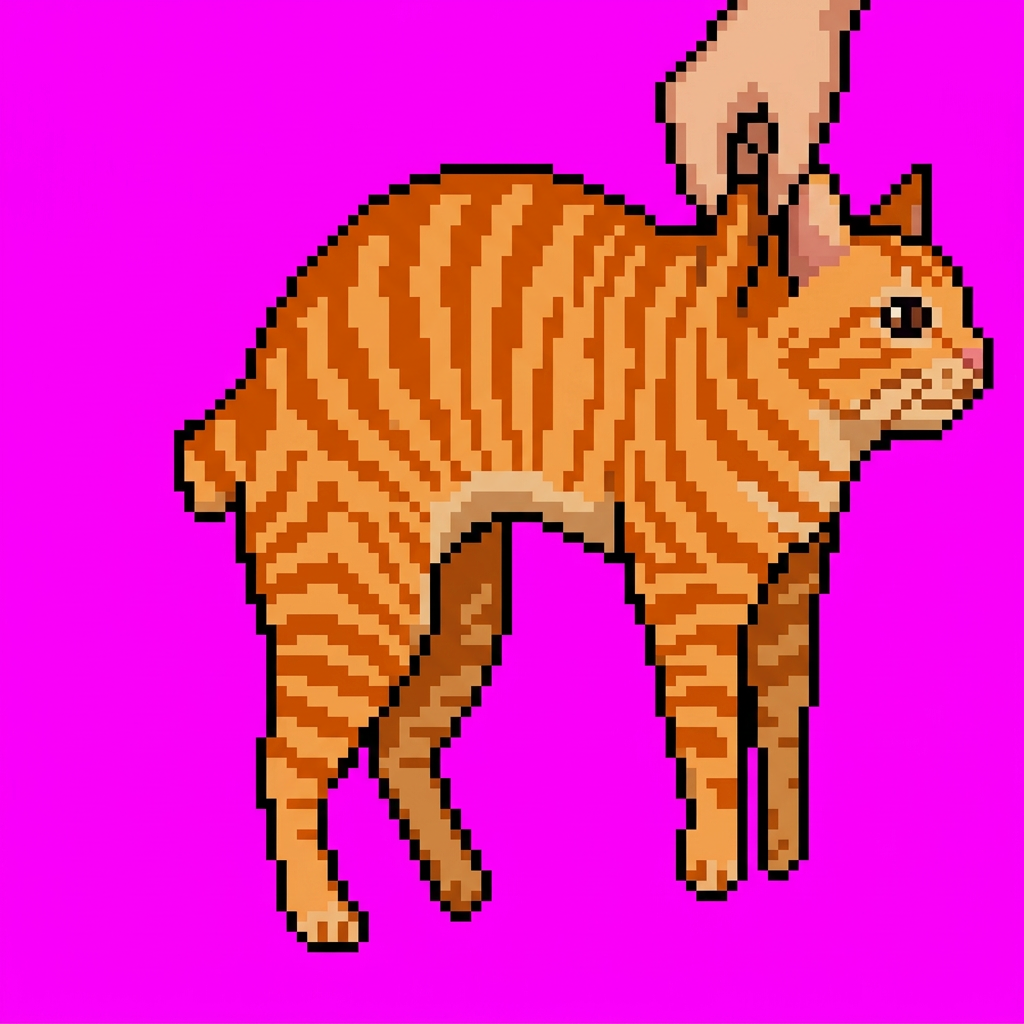
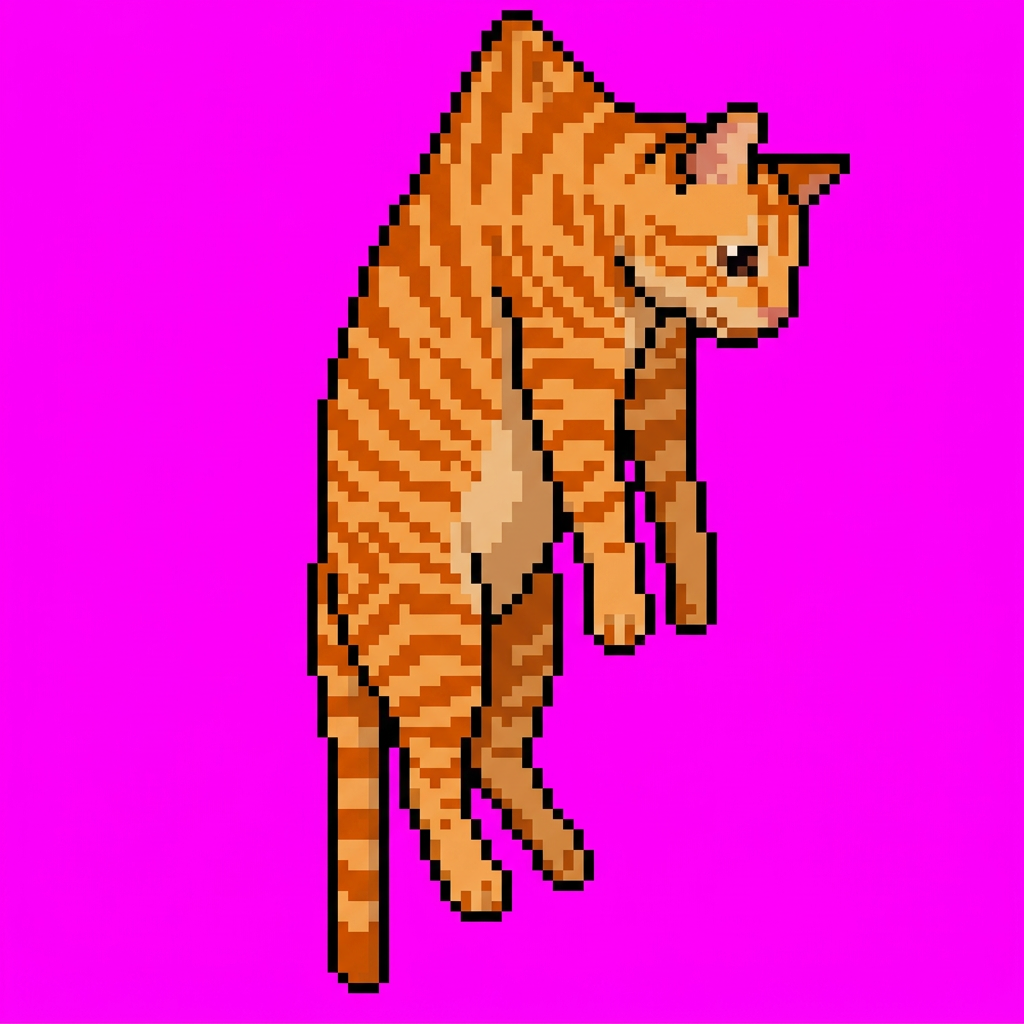
feat(art): defringe keyed art and regenerate dangle without a hand
The art build now replaces magenta-tinted edge pixels with the nearest art
colour and drops isolated specks before the 16-colour quantise. dangle is
regenerated as a limp cat with no hand, and its tail layer retuned.

Claude-Session: https://claude.ai/code/session_013YxWPcQyeLJtGNegrQe5AD

diff --git a/scripts/art/defringe.ts b/scripts/art/defringe.ts
@@ -1,0 +1,66 @@
+/** True for a colour that is magenta, or a blend of magenta with the art (r and b both well above g). */
+export function isMagentaTinted(r: number, g: number, b: number): boolean {
+  return r - g > 40 && b - g > 40;
+}
+
+const SEARCH_RADIUS = 3;
+
+/**
+ * Cleans the keyed, snapped RGBA image in place: magenta-tinted opaque pixels take the colour of the nearest
+ * untinted opaque neighbour (or go transparent when there is none), then isolated opaque specks are dropped.
+ */
+export function defringe(data: Buffer, width: number, height: number): void {
+  const at = (x: number, y: number) => (y * width + x) * 4;
+  const inside = (x: number, y: number) => x >= 0 && y >= 0 && x < width && y < height;
+  const tinted = new Uint8Array(width * height);
+  for (let y = 0; y < height; y++) {
+    for (let x = 0; x < width; x++) {
+      const i = at(x, y);
+      if (data[i + 3] > 0 && isMagentaTinted(data[i], data[i + 1], data[i + 2])) tinted[y * width + x] = 1;
+    }
+  }
+  const clean = (x: number, y: number) =>
+    inside(x, y) && data[at(x, y) + 3] > 0 && tinted[y * width + x] === 0;
+
+  const fixes: [number, number, number, number, number][] = [];
+  for (let y = 0; y < height; y++) {
+    for (let x = 0; x < width; x++) {
+      if (!tinted[y * width + x]) continue;
+      let found: number | null = null;
+      for (let r = 1; r <= SEARCH_RADIUS && found === null; r++) {
+        let best = Infinity;
+        for (let dy = -r; dy <= r; dy++) {
+          for (let dx = -r; dx <= r; dx++) {
+            if (Math.max(Math.abs(dx), Math.abs(dy)) !== r || !clean(x + dx, y + dy)) continue;
+            const d = dx * dx + dy * dy;
+            if (d < best) {
+              best = d;
+              found = at(x + dx, y + dy);
+            }
+          }
+        }
+      }
+      fixes.push(found === null ? [x, y, 0, 0, -1] : [x, y, data[found], data[found + 1], data[found + 2]]);
+    }
+  }
+  for (const [x, y, r, g, b] of fixes) {
+    const i = at(x, y);
+    if (b < 0) data[i + 3] = 0;
+    else {
+      data[i] = r;
+      data[i + 1] = g;
+      data[i + 2] = b;
+    }
+  }
+
+  const specks: number[] = [];
+  const opaque = (x: number, y: number) => inside(x, y) && data[at(x, y) + 3] > 0;
+  for (let y = 0; y < height; y++) {
+    for (let x = 0; x < width; x++) {
+      if (opaque(x, y) && !opaque(x - 1, y) && !opaque(x + 1, y) && !opaque(x, y - 1) && !opaque(x, y + 1)) {
+        specks.push(at(x, y));
+      }
+    }
+  }
+  for (const i of specks) data[i + 3] = 0;
+}

diff --git a/tests/art/defringe.test.ts b/tests/art/defringe.test.ts
@@ -1,0 +1,62 @@
+import { describe, expect, it } from 'vitest';
+import { defringe, isMagentaTinted } from '../../scripts/art/defringe';
+
+/** A w by h RGBA buffer, transparent, with helpers to paint pixels. */
+function canvas(w: number, h: number) {
+  const data = Buffer.alloc(w * h * 4);
+  const set = (x: number, y: number, rgb: [number, number, number]) => {
+    const i = (y * w + x) * 4;
+    data[i] = rgb[0];
+    data[i + 1] = rgb[1];
+    data[i + 2] = rgb[2];
+    data[i + 3] = 255;
+  };
+  const px = (x: number, y: number) => {
+    const i = (y * w + x) * 4;
+    return [data[i], data[i + 1], data[i + 2], data[i + 3]];
+  };
+  return { data, set, px };
+}
+
+describe('isMagentaTinted', () => {
+  it('flags magenta blends and spares fur, outline and the pink nose', () => {
+    expect(isMagentaTinted(240, 68, 156)).toBe(true); // magenta over orange
+    expect(isMagentaTinted(127, 0, 127)).toBe(true); // magenta over black
+    expect(isMagentaTinted(248, 124, 194)).toBe(true); // light blend
+    expect(isMagentaTinted(224, 136, 58)).toBe(false);
+    expect(isMagentaTinted(42, 26, 20)).toBe(false);
+    expect(isMagentaTinted(232, 144, 154)).toBe(false);
+  });
+});
+
+describe('defringe', () => {
+  it('replaces a magenta-blended anti-aliased edge with the neighbouring art colour', () => {
+    const c = canvas(6, 4);
+    for (let y = 0; y < 4; y++) for (let x = 0; x < 3; x++) c.set(x, y, [224, 136, 58]);
+    for (let y = 0; y < 4; y++) c.set(3, y, [240, 68, 156]); // fringe column
+    defringe(c.data, 6, 4);
+    for (let y = 0; y < 4; y++) {
+      const [r, g, b, a] = c.px(3, y);
+      expect(a === 0 || !isMagentaTinted(r, g, b)).toBe(true);
+      if (a !== 0) expect([r, g, b]).toEqual([224, 136, 58]);
+    }
+  });
+
+  it('drops a fringe pixel with no art beside it', () => {
+    const c = canvas(5, 5);
+    c.set(2, 2, [240, 68, 156]);
+    defringe(c.data, 5, 5);
+    expect(c.px(2, 2)[3]).toBe(0);
+  });
+
+  it('removes a lone opaque speck but keeps connected pixels', () => {
+    const c = canvas(8, 4);
+    c.set(1, 1, [224, 136, 58]);
+    c.set(1, 2, [224, 136, 58]);
+    c.set(6, 1, [224, 136, 58]);
+    defringe(c.data, 8, 4);
+    expect(c.px(6, 1)[3]).toBe(0);
+    expect(c.px(1, 1)[3]).toBe(255);
+    expect(c.px(1, 2)[3]).toBe(255);
+  });
+});

diff --git a/scripts/art/build.ts b/scripts/art/build.ts
@@ -5,6 +5,7 @@ import { fileURLToPath, pathToFileURL } from 'node:url';
 import sharp from 'sharp';
 import { COLOURS, SPECIES, type Colour, type Species } from '../../src/brain/types';
 import { ART_CELL, PART_NAMES, POSE_NAMES } from '../../src/render/artNames';
+import { defringe } from './defringe';
 import { PLACEHOLDER_COATS, writePlaceholders } from './placeholder';
 import { isKey, recolour } from './recolour';
 
@@ -31,8 +32,12 @@ async function prepare(file: string, name: string): Promise<Buffer> {
   for (let i = 0; i < data.length; i += 4) {
     if (isKey(data[i], data[i + 1], data[i + 2])) data[i + 3] = 0;
   }
-  const small = await sharp(data, { raw: { width: info.width, height: info.height, channels: 4 } })
+  const snapped = await sharp(data, { raw: { width: info.width, height: info.height, channels: 4 } })
     .resize(CELL, CELL, { kernel: 'nearest', fit: 'fill' })
+    .raw()
+    .toBuffer();
+  defringe(snapped, CELL, CELL);
+  const small = await sharp(snapped, { raw: { width: CELL, height: CELL, channels: 4 } })
     .png({ palette: true, colours: MAX_COLOURS, dither: 0 })
     .toBuffer();
   return sharp(small).ensureAlpha().raw().toBuffer();

diff --git a/scripts/art/generate.ts b/scripts/art/generate.ts
@@ -31,7 +31,7 @@ const SUBJECTS: Record<string, string> = {
   stretch: 'whole cat in a stretch, front legs forward, rear raised, without the tail',
   groom: 'whole cat sitting and licking a raised paw, without the tail',
   'sit-up': 'whole cat sitting up on hind legs, front paws held up, without the tail',
-  dangle: 'whole cat held up by the scruff, body hanging limp with legs dangling, without the tail',
+  dangle: 'whole cat hanging limp as if lifted by the scruff from above, body hanging, front paws dangling down, hind legs dangling, tail hanging straight down, no hand, no person, nothing holding it',
 };
 const PARTS = ['body', 'head', 'ear-near', 'ear-far', 'eyes-open', 'eyes-closed', 'tail', 'leg-front-near', 'leg-front-far', 'leg-back-near', 'leg-back-far', 'paw-raised'];
 const POSES = ['sit', 'loaf', 'sleep-curl', 'belly-up', 'stretch', 'groom', 'sit-up', 'dangle'];

diff --git a/src/render/rig.ts b/src/render/rig.ts
@@ -135,7 +135,7 @@ const POSE_TAIL: Record<PoseName, { x: number; y: number; rotation: number; swin
   stretch: { x: -30, y: -21, rotation: 2.3, swing: 0.6 },
   groom: { x: -29, y: 22, rotation: 1.1, swing: 0.6 },
   'sit-up': { x: -17, y: 26, rotation: 1.1, swing: 1 },
-  dangle: { x: -24, y: -6, rotation: -0.4, swing: 1.4 },
+  dangle: { x: -11, y: 8, rotation: -0.56, swing: 1.4 },
 };
 
 /** The sit pose is drawn without ears and eyes; these parts are always layered on it. Other poses keep their own. */
